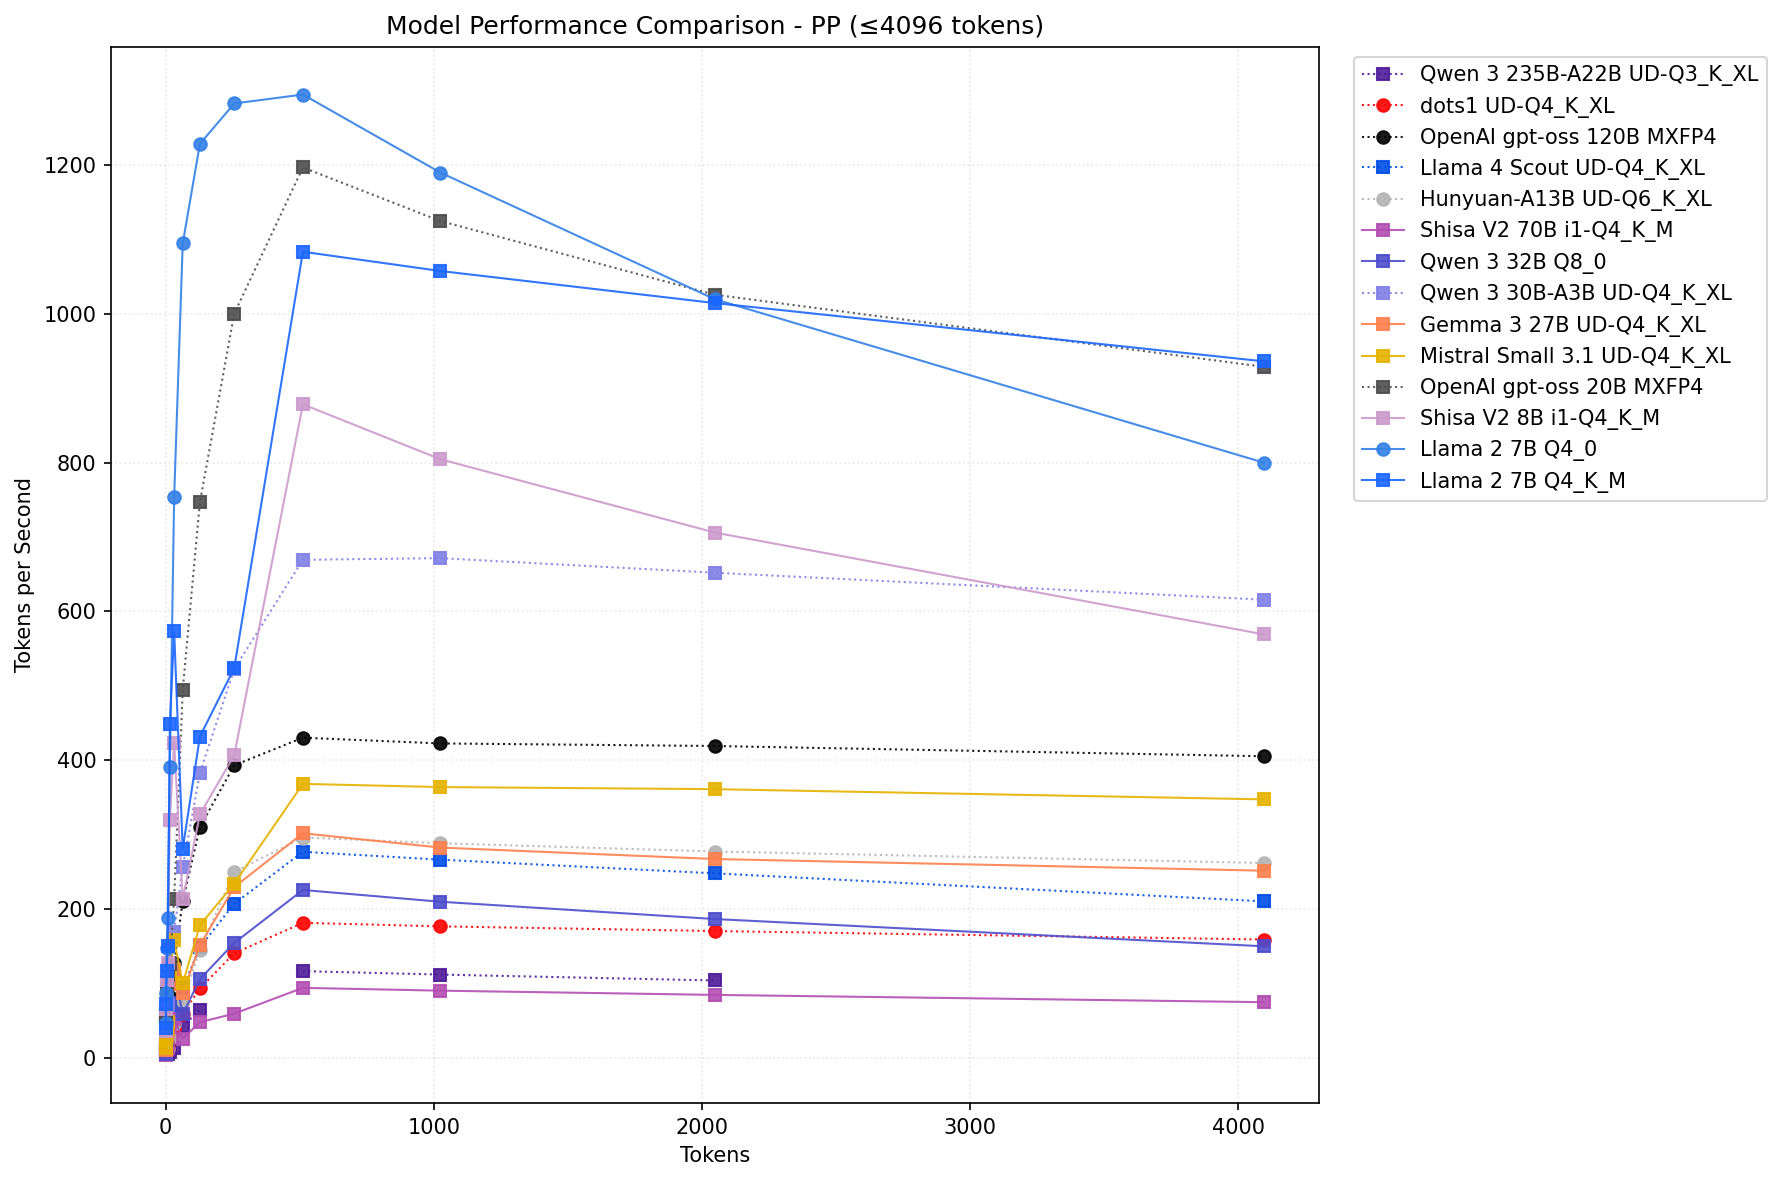
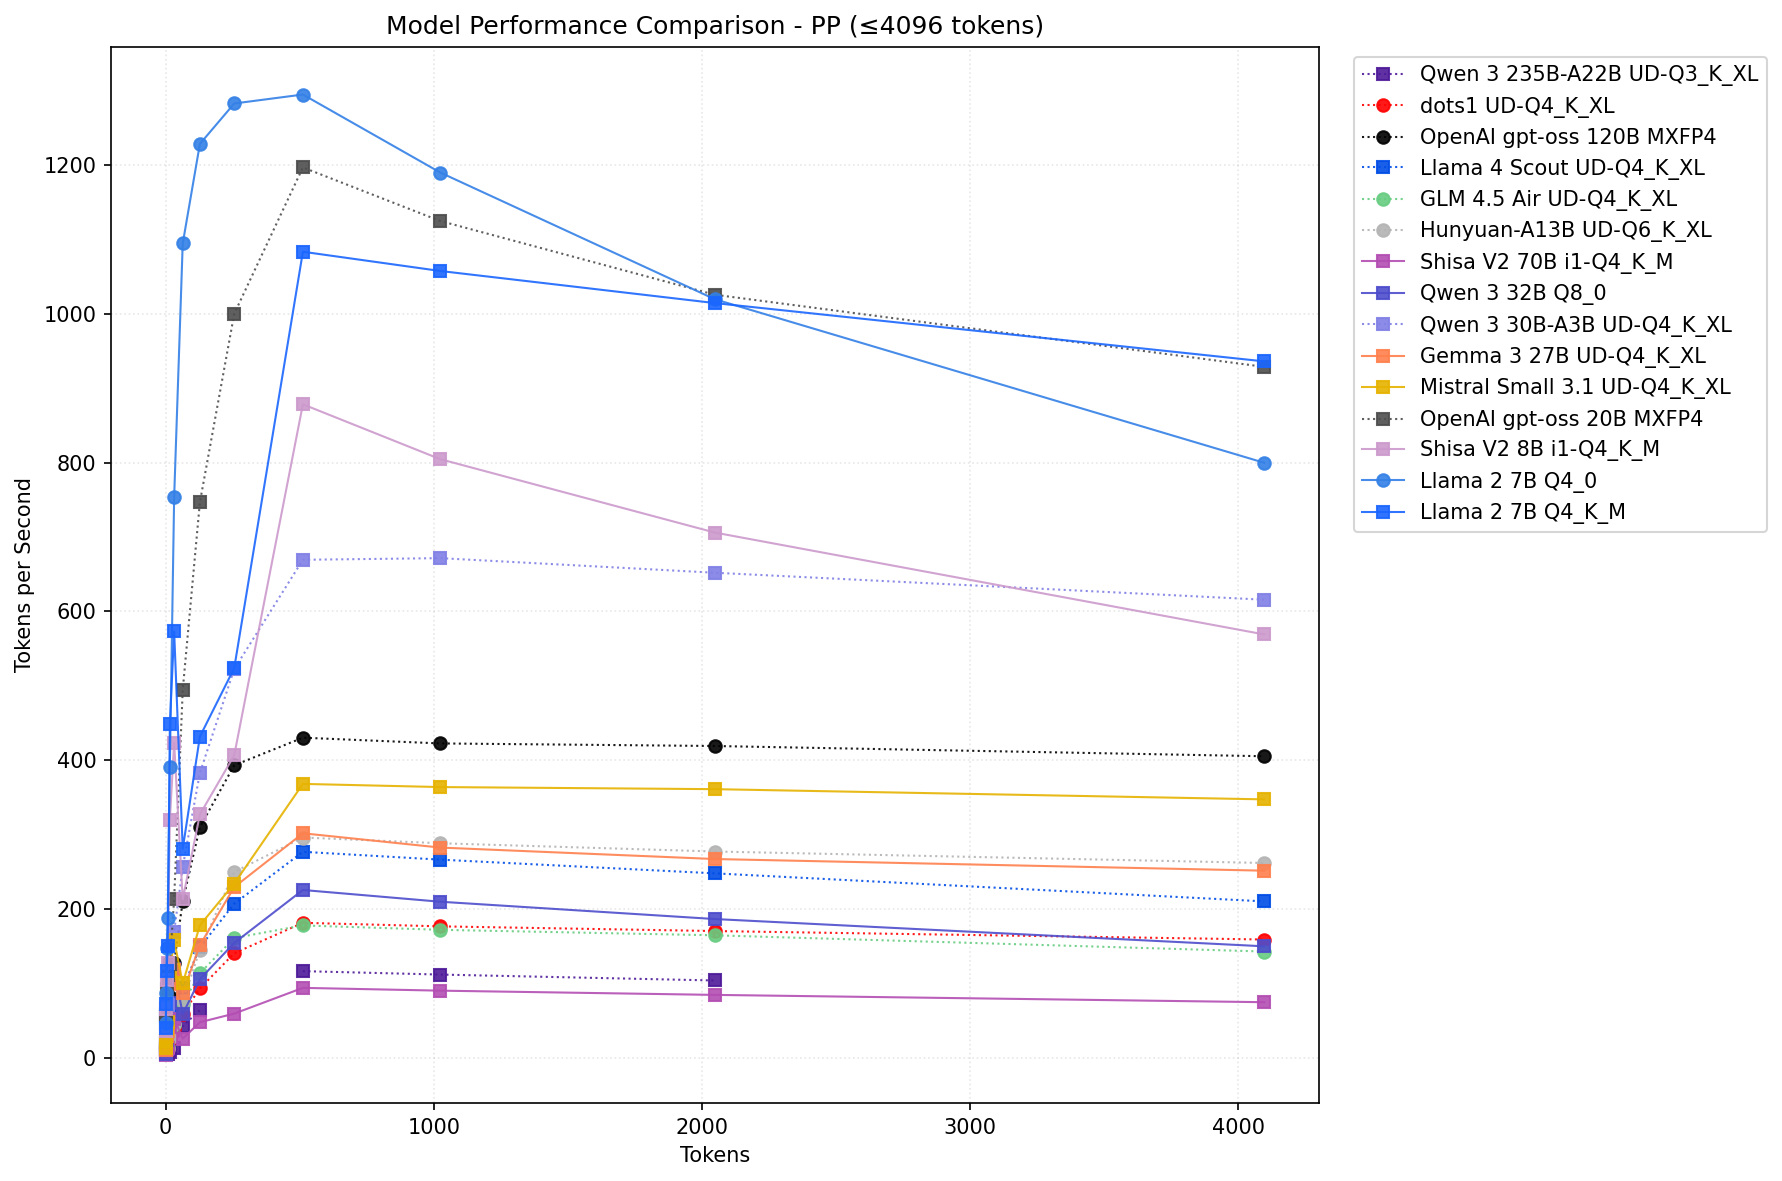
updated results w/ GLM 4.5

Changed region(s): [[0.7716, 0.1524, 0.9877, 0.4572], [0.1543, 0.7621, 0.1852, 0.7925]]

diff --git a/llm-bench/create-summary-readme.py b/llm-bench/create-summary-readme.py
@@ -207,6 +207,19 @@ MODELS = {
             "ls": ":",
         },
     },
+    "GLM-4.5-Air-UD-Q4_K_XL": {
+        "name": "GLM 4.5 Air UD-Q4_K_XL",
+        "arch": "GLM 4.5",
+        "weights": 106,
+        "active": 12,
+        "pp": "vulkan_amdvlk_fa",
+        "tg": "vulkan_radv_fa",
+        "line": {
+            "color": (0.4, 0.8, 0.5, 0.9),
+            "lw": 1,
+            "ls": ":",
+        },
+    },
 }
 
 def load_model_results(model_key):

diff --git a/llm-bench/README.md b/llm-bench/README.md
@@ -174,6 +174,7 @@ cmake -S . -B build -DGGML_HIP=ON -DAMDGPU_TARGETS=gfx1151 -DGGML_HIP_ROCWMMA_FA
 | Llama 4 Scout UD-Q4_K_XL     | Llama 4 MoE    |           109 |           17 | HIP           | hipBLASLt      |   277.4 |    17.6 |              59720 |
 | Qwen 3 32B Q8_0              | Qwen 3         |            32 |           32 | HIP           | hipBLASLt      |   226.1 |     6.4 |              33683 |
 | dots1 UD-Q4_K_XL             | dots1 MoE      |           142 |           14 | Vulkan AMDVLK | fa=1           |   182.0 |    22.1 |              84082 |
+| GLM 4.5 Air UD-Q4_K_XL       | GLM 4.5        |           106 |           12 | Vulkan AMDVLK | fa=1           |   178.5 |    22.6 |              68419 |
 | Qwen 3 235B-A22B UD-Q3_K_XL  | Qwen 3 MoE     |           235 |           22 | HIP           | hipBLASLt      |   117.1 |    12.9 |              99950 |
 | Shisa V2 70B i1-Q4_K_M       | Llama 3        |            70 |           70 | HIP rocWMMA   | hipBLASLt      |    94.7 |     4.5 |              41522 |
 
@@ -188,6 +189,7 @@ cmake -S . -B build -DGGML_HIP=ON -DAMDGPU_TARGETS=gfx1151 -DGGML_HIP_ROCWMMA_FA
 | OpenAI gpt-oss 20B MXFP4     | gpt-oss        |            21 |            4 | Vulkan AMDVLK | b=256      |   956.5 |    47.1 |              14690 |
 | Shisa V2 8B i1-Q4_K_M        | Llama 3        |             8 |            8 | Vulkan AMDVLK | fa=1       |   614.2 |    42.0 |               5333 |
 | OpenAI gpt-oss 120B MXFP4    | gpt-oss        |           117 |            5 | Vulkan AMDVLK | b=256      |   386.8 |    33.7 |              63972 |
+| GLM 4.5 Air UD-Q4_K_XL       | GLM 4.5        |           106 |           12 | Vulkan RADV   | fa=1       |   125.4 |    23.4 |              68365 |
 | dots1 UD-Q4_K_XL             | dots1 MoE      |           142 |           14 | Vulkan AMDVLK | fa=1 b=256 |   139.1 |    22.1 |              83917 |
 | Llama 4 Scout UD-Q4_K_XL     | Llama 4 MoE    |           109 |           17 | Vulkan AMDVLK | fa=1 b=256 |   157.8 |    19.4 |              59917 |
 | Hunyuan-A13B UD-Q6_K_XL      | Hunyuan MoE    |            80 |           13 | Vulkan AMDVLK | fa=1 b=256 |   244.8 |    18.1 |              69006 |
